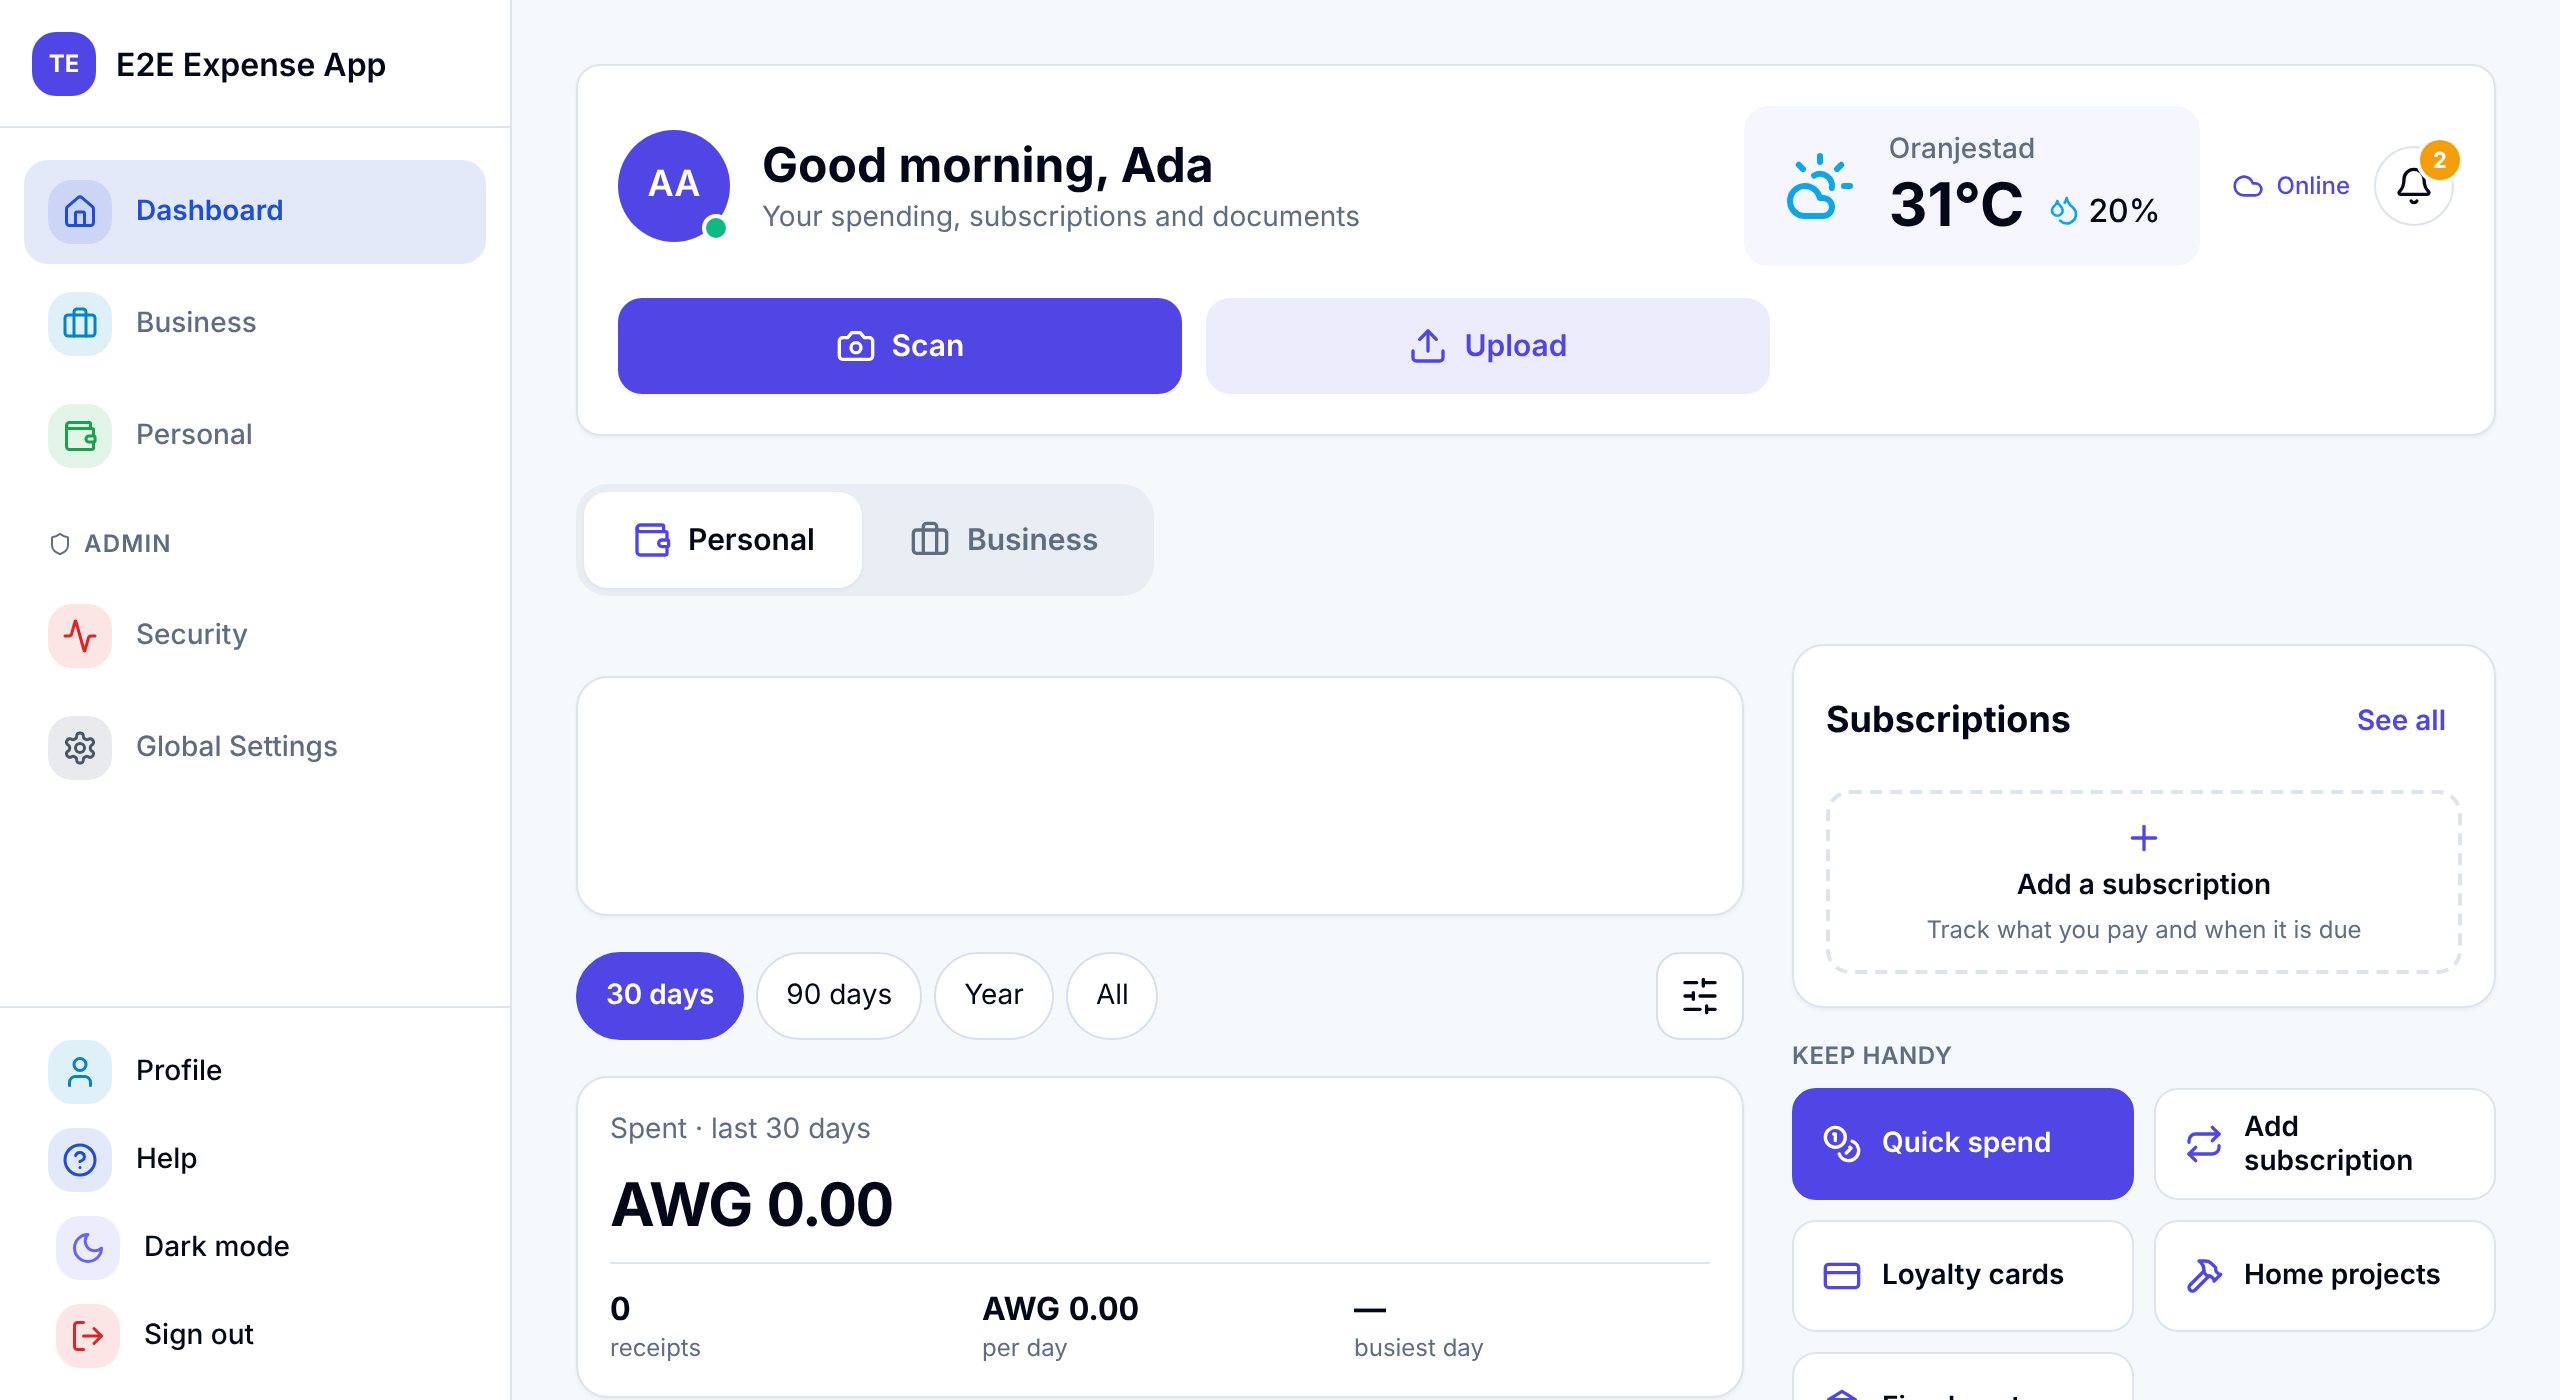
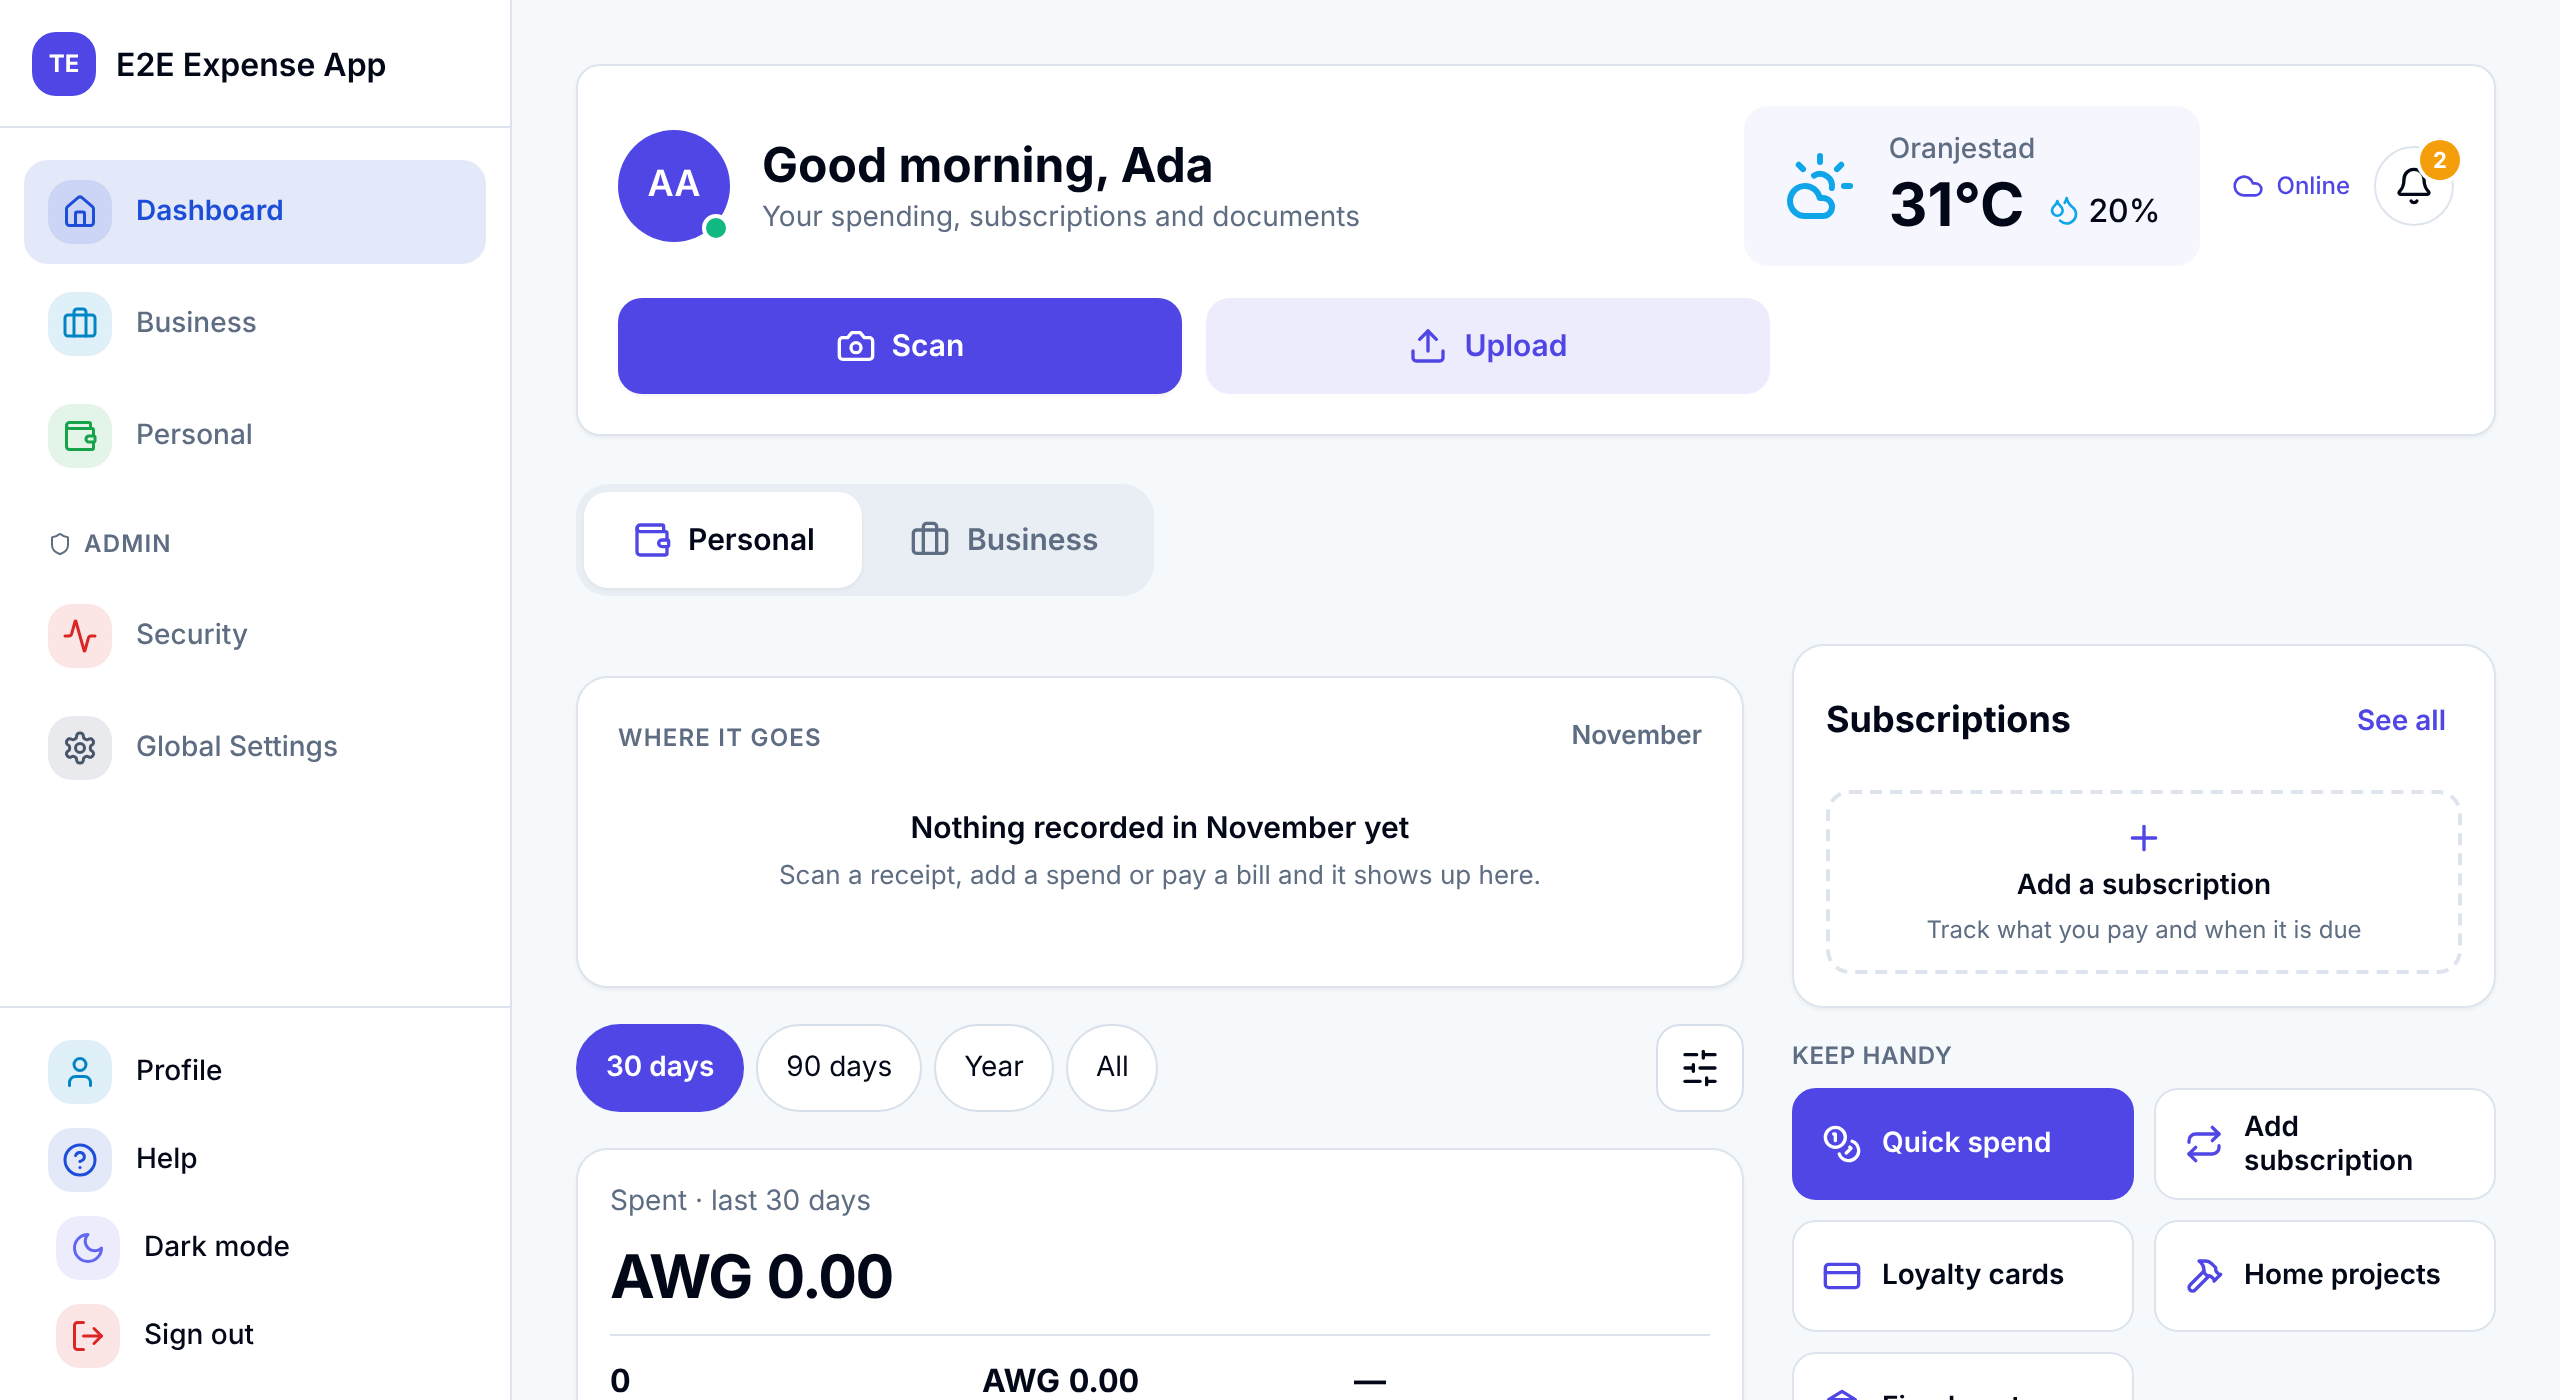
Utilities summary card: amount first, the chart below it across the full width
Claude-Session: https://claude.ai/code/session_01CuWvFaDqwZfiNYsTiPN3JJ

diff --git a/src/components/personal/UtilitiesOverview.tsx b/src/components/personal/UtilitiesOverview.tsx
@@ -72,15 +72,14 @@ export function UtilitiesOverview() {
         {/* Summary: first on a phone, on the right of the lists on a desktop */}
         <aside className="order-1 space-y-3 lg:order-2" aria-label="This month">
           <div className={`${card} p-4`}>
-            <div className="flex items-start justify-between gap-3">
-              <div className="min-w-0">
-                <p className={secLabel}>Paid in {mName}</p>
-                <p className="mt-1 whitespace-nowrap text-[30px] font-bold leading-none tabular-nums" data-testid="util-total">{awg(total)}</p>
-                {pct != null && (
-                  <p className="mt-2"><span className="inline-flex rounded-full bg-muted px-2 py-0.5 text-[11.5px] font-bold" data-testid="util-change">{pct === 0 ? `Same as ${prevName}` : `${Math.abs(pct)}% ${pct > 0 ? "more" : "less"} than ${prevName}`}</span></p>
-                )}
-              </div>
-              <div className="w-32 shrink-0"><TrendBars data={months} fmt={awg} /></div>
+            <p className={secLabel}>Paid in {mName}</p>
+            <p className="mt-1 whitespace-nowrap text-[30px] font-bold leading-none tabular-nums" data-testid="util-total">{awg(total)}</p>
+            {pct != null && (
+              <p className="mt-2"><span className="inline-flex rounded-full bg-muted px-2 py-0.5 text-[11.5px] font-bold" data-testid="util-change">{pct === 0 ? `Same as ${prevName}` : `${Math.abs(pct)}% ${pct > 0 ? "more" : "less"} than ${prevName}`}</span></p>
+            )}
+            <div className="mt-3.5 border-t pt-3">
+              <p className="mb-1.5 text-xs font-bold text-muted-foreground">Last 4 months</p>
+              <TrendBars data={months} fmt={awg} />
             </div>
             <p className="mt-3 text-xs text-muted-foreground">Florins (AWG, the same as Afl.). Other currencies are converted.</p>
           </div>

diff --git a/src/components/personal/utility-ui.tsx b/src/components/personal/utility-ui.tsx
@@ -33,12 +33,12 @@ export function RefChip({ value }: { value: string }) { return <span data-testid
 export function TrendBars({ data, fmt }: { data: { month: string; usd: number }[]; fmt: (usd: number) => string }) {
   const max = Math.max(...data.map((d) => d.usd), 1);
   return (
-    <div className="flex h-[68px] items-end gap-2" role="img" aria-label={`Paid each month: ${data.map((d) => `${monthShort(d.month)} ${fmt(d.usd)}`).join(", ")}`} data-testid="util-trend">
+    <div className="flex h-[76px] items-end gap-3" role="img" aria-label={`Paid each month: ${data.map((d) => `${monthShort(d.month)} ${fmt(d.usd)}`).join(", ")}`} data-testid="util-trend">
       {data.map((d, i) => {
         const now = i === data.length - 1;
         return (
           <div key={d.month} className="flex flex-1 flex-col items-center gap-1" aria-hidden="true">
-            <div className={cn("w-full max-w-[34px] rounded-md", now ? "bg-primary" : "bg-primary/20")} style={{ height: `${Math.max(6, Math.round((d.usd / max) * 44))}px` }} />
+            <div className={cn("w-full max-w-[40px] rounded-md", now ? "bg-primary" : "bg-primary/20")} style={{ height: `${Math.max(6, Math.round((d.usd / max) * 44))}px` }} />
             <span className={cn("text-[11px]", now ? "font-bold text-primary" : "text-muted-foreground")}>{monthShort(d.month)}</span>
           </div>
         );
